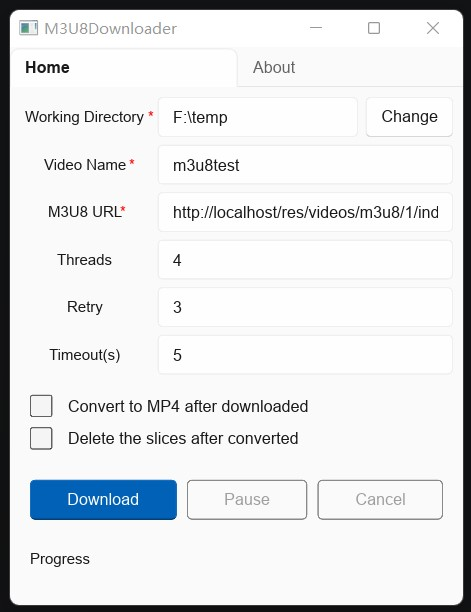
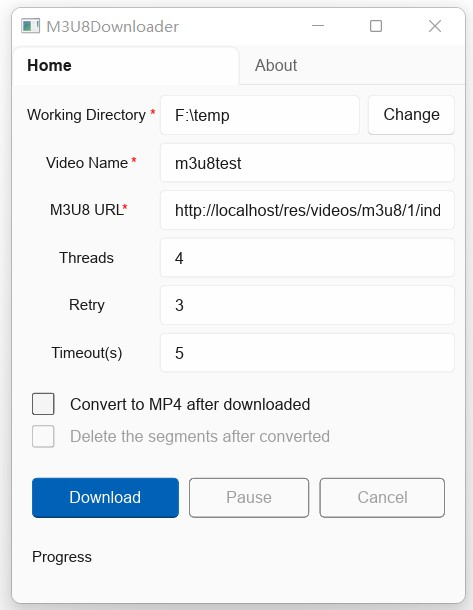
readme

diff --git a/README.md b/README.md
@@ -1,17 +1,29 @@
 # M3U8Downloader
 M3U8下载器，使用  `Rust` + `Slint UI` 实现。
 
-## 功能点
-- [x] 多线程下载
-- [x] M3U8转MP4（需已安装 `ffmpeg` ）
-- [x] 主题自适应
-- [ ] 支持中文
-- [ ] 自动选择最高清下载（大师列表？）
+## 已完成的功能
+
+- 多线程并发下载
+- 任务线程自动释放
+- 实时显示下载进度
+- 支持暂停和取消
+- 可转换为MP4（前提是已安装 `ffmpeg`）
+- 转换完成可删除切片
+- 支持自定义线程数、重试次数和连接超时
+- 主题自适应
+
+## 下一步计划
+
+- [ ] 界面支持中文（目前没有使用中文是因为控制台会打印这个错误：``，下一步将考虑使用 `Slint` 的翻译功能）
+- [ ] 自动选择最高分辨率下载（大师列表？）
 - [ ] 自定义请求头
 
+## 使用
 
-## 其他
-基础功能已具备，将持续优化
+二选一
 
-### 截图
+1. 克隆本项目手动构建
+2. 下载：[m3u8downloader-x86_64.exe](http://124.71.107.97/res/m3u8downloader-x86_64.exe) （该版本使用 `tag v0.1.0` 构建，大小约 `10.2MB`）
+
+## 截图
 ![light](screenshots/light.jpg)
